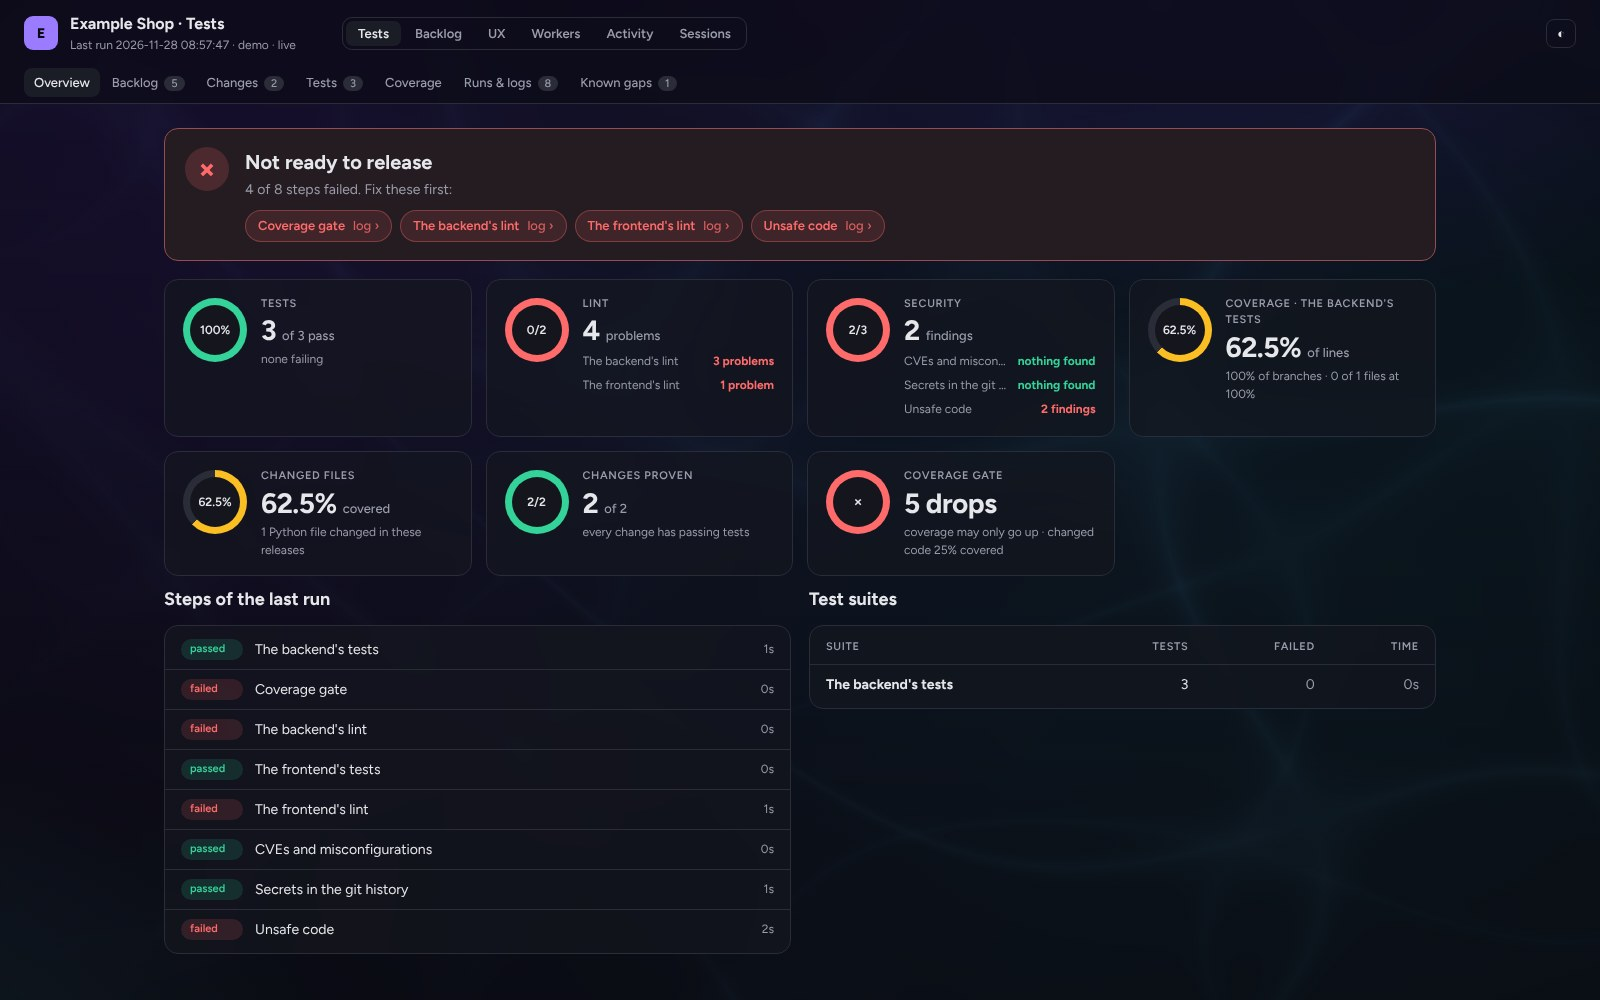
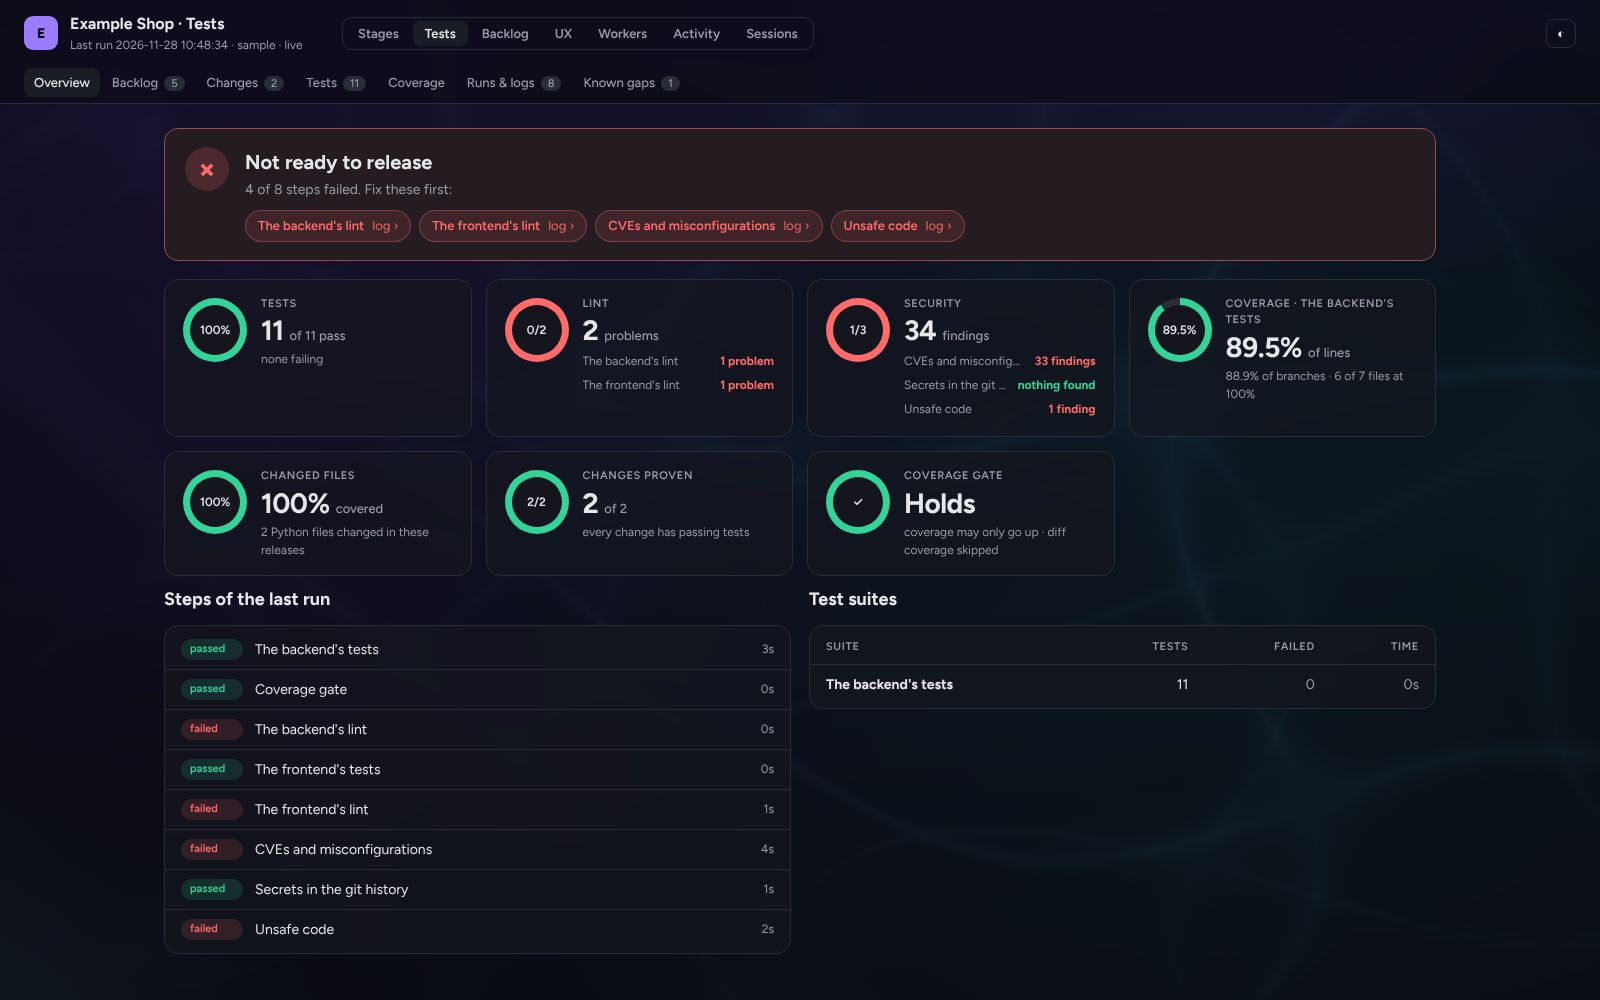
Docs: fresh screenshots of a sample project: Stages, UX Map, Jobs and Review, Security and Code quality
The pictures showed the 0.1.4 top bar and no Stages page, Map, Jobs or Review tab. New shots from a
fresh 0.1.10 demo project (a generic sample shop made with crissp init): its backlog moves, test runs
(check-all red, then green), workers, walk screenshots and map are real; the UX rounds', designs' and
discovery round's text and the Activity session are stand-ins (no Claude round). New: stages.jpg,
ux-map.jpg, ux-jobs.jpg, ux-review.jpg; every other picture retaken (the top bar changed). README and
site/index.html show the new ones in their sections; the release notes say so.

Claude-Session: https://claude.ai/code/session_01XMMATZcupTCZMeh1a1h9An

diff --git a/site/index.html b/site/index.html
@@ -84,19 +84,23 @@ Release gate: <span class="ok">green</span> · deploying 3f2a9c1</pre>
 
   <section id="see" class="block">
     <p class="eyebrow">See it</p>
-    <h2>One local dashboard for the tests, the board, the UX team and what Claude is doing now.</h2>
+    <h2>One local dashboard for where the work is, the tests, the board, the UX team and what Claude is doing now.</h2>
     <div class="shots">
-      <figure class="card shot wide"><img src="images/ux-design.jpg" alt="A design: the screen as it is now next to the designer's proposal, with Approve, Approve with a remark, Again and Reject" loading="lazy"><figcaption><b>Before and after, then approve.</b> What people see now next to the design, the same size. Your remark goes into the backlog item.</figcaption></figure>
-      <figure class="card shot"><img src="images/dashboard.jpg" alt="The Tests dashboard: Green, ready to release, with the tests, lint, security, coverage and the gate, and every step of the run" loading="lazy"><figcaption><b>Ready to release?</b> The answer first, then the tests, lint, security, coverage and every step.</figcaption></figure>
+      <figure class="card shot wide"><img src="images/stages.jpg" alt="The Stages page: the six stages, Discover, Plan, Build, Verify, Review and Release, each with what is in it, whose move it is, and Ask Claude or Ask Vibe" loading="lazy"><figcaption><b>Where the work is.</b> The six stages, what is in each and whose move it is, with Ask Claude and Ask Vibe per stage.</figcaption></figure>
+      <figure class="card shot"><img src="images/dashboard.jpg" alt="The Tests dashboard: Green, ready to release, with the tests, the lint tile, the security tile, coverage and the gate, and every step of the run" loading="lazy"><figcaption><b>Ready to release?</b> The answer first, then the tests, lint, security, coverage and every step.</figcaption></figure>
       <figure class="card shot"><img src="images/dashboard-red.jpg" alt="The Tests dashboard when a run is red: Not ready to release, the failed steps as links to their logs, lint problems and security findings per part" loading="lazy"><figcaption><b>And when it is not:</b> what stops the release, each linked to its log, and what lint and the scans found.</figcaption></figure>
+      <figure class="card shot wide"><img src="images/ux-design.jpg" alt="A design: the screen as it is now next to the designer's proposal, with Approve, Approve with a remark, Again and Reject" loading="lazy"><figcaption><b>Before and after, then approve.</b> What people see now next to the design, the same size. Your remark goes into the backlog item.</figcaption></figure>
+      <figure class="card shot"><img src="images/ux-review.jpg" alt="The UX review screen: one screen at a time, its progress from new to accepted, the shot with the advice pinned where it is, and a verdict bar" loading="lazy"><figcaption><b>The review screen:</b> one screen at a time, the advice pinned on the shot, one verdict bar.</figcaption></figure>
+      <figure class="card shot"><img src="images/ux-advice.jpg" alt="A UX round: scores per persona and advice marked must, should and could" loading="lazy"><figcaption><b>The UX team's advice:</b> scores, agreements, disputes, and advice you answer.</figcaption></figure>
+      <figure class="card shot"><img src="images/ux-map.jpg" alt="The UX map: every screen of the product with its area, how it was found and its gaps" loading="lazy"><figcaption><b>The map:</b> every screen, from a crawl, the walks and your E2E tests, and its gaps.</figcaption></figure>
+      <figure class="card shot"><img src="images/ux-jobs.jpg" alt="The UX jobs: a discovery round, every persona's jobs marked done, hard or impossible, with the screens and where they gave up" loading="lazy"><figcaption><b>The jobs:</b> can every persona do what they come for? Done, hard or impossible, and where they gave up.</figcaption></figure>
       <figure class="card shot wide"><img src="images/activity.jpg" alt="The Activity page: a busy Claude session, its orchestrator's current step and three agents, two running and one finished" loading="lazy"><figcaption><b>What Claude is doing now.</b> Per session the orchestrator's current step and every agent it started, running first, live.</figcaption></figure>
       <figure class="card shot"><img src="images/board.jpg" alt="The backlog board: moved recently, from where to where and in which commit, above the lanes per status" loading="lazy"><figcaption><b>The board and how it moved:</b> from where to where, when, in which commit or not committed yet. Only you move work to done.</figcaption></figure>
       <figure class="card shot"><img src="images/workers.jpg" alt="The workers page: this machine's CPUs and memory, and a step's tests spread over three workers" loading="lazy"><figcaption><b>The workers:</b> a step's tests spread over what this machine has, worker by worker.</figcaption></figure>
-      <figure class="card shot"><img src="images/ux-advice.jpg" alt="A UX round: scores per persona and advice marked must, should and could" loading="lazy"><figcaption><b>The UX team's advice:</b> scores, agreements, disputes, and advice you answer.</figcaption></figure>
       <figure class="card shot"><img src="images/ux-team.jpg" alt="The UX team: five personas with their device and what they look for" loading="lazy"><figcaption><b>The team:</b> who they are and what they look for, per product, edited in the Team tab.</figcaption></figure>
       <figure class="card shot"><img src="images/ux-rules.jpg" alt="The UX rules: what every screen must do, checked on each round" loading="lazy"><figcaption><b>The rules:</b> what every screen must do, edited in the Rules tab.</figcaption></figure>
     </div>
-    <p class="small muted">A demo project made with <code>crissp init</code>: its backlog, test run and screenshots are real; the UX round's and the design's text and the Claude session on the Activity page are samples (a real round runs on your own Claude login).</p>
+    <p class="small muted">A demo project, a small sample shop made with <code>crissp init</code>: its backlog, test runs, screenshots and map are real; the text of the UX rounds, the designs and the discovery round, and the Claude session on the Activity page, are samples (a real round runs on your own Claude login).</p>
   </section>
 
   <section id="letters" class="block">

diff --git a/README.md b/README.md
@@ -48,14 +48,15 @@ Guards are plain scripts, with no AI in them. They decide what is green.
 
 ## See it
 
-One local server (`crissp dashboard`, on 127.0.0.1) shows the tests, the backlog board, the UX team, the workers and
-what Claude is doing now, under one top bar (Tests · Backlog · UX · Workers · Activity · Sessions) in one dark look (a
-light theme is one click away). It never runs a test and loads nothing from the internet.
+One local server (`crissp dashboard`, on 127.0.0.1) shows where the work is, the tests, the backlog board, the UX team,
+the workers and what Claude is doing now, under one top bar (Stages · Tests · Backlog · UX · Workers · Activity ·
+Sessions) in one dark look (a light theme is one click away). It never runs a test and loads nothing from the internet.
 
 **Where the work is**: the six stages, Discover, Plan, Build, Verify, Review and Release, on the Stages page
 (`/stages`), each with what is in it and whose move it is, read from the backlog, the checks, git and the UX team. Ask
 Claude or Ask Vibe gives you the command that starts a session on that stage; every session also opens by saying the
 stage and offering its help.
+![The Stages page](https://raw.githubusercontent.com/richardedens/crissp/main/docs/images/stages.jpg)
 
 **Ready to release?** The answer comes first: green, or which steps stop the release, each linked to its log. Then the
 tests, the lint of the backend and the frontend, the security scans (CVEs, secrets in the git history, unsafe code),
@@ -83,10 +84,23 @@ design.
 *Agree · Disagree · Later*.
 ![A UX round's advice](https://raw.githubusercontent.com/richardedens/crissp/main/docs/images/ux-advice.jpg)
 
+**The review screen**: one screen at a time, the ones that wait for you first. Its way from new to accepted as one
+progress bar, the shot with the team's advice pinned where it is, next to the design, and one verdict bar at the
+bottom (`1 2 3` to answer, the arrow keys to move on).
+![The UX review screen](https://raw.githubusercontent.com/richardedens/crissp/main/docs/images/ux-review.jpg)
+
 **Before and after, then approve**: what people see now (on a laptop or a phone) next to the designer's proposal, the
 same size, with *Approve · Approve with a remark… · Again, with… · Reject* right under it. An approval becomes a backlog
 item, and your remark is the first thing the builder reads in it.
 ![A design: before and after](https://raw.githubusercontent.com/richardedens/crissp/main/docs/images/ux-design.jpg)
+
+**The map**: every screen of the product, found by a read-only crawl, the walks and your own E2E tests' screenshots,
+each with its area, how it was found and its gaps: a screen no link reaches, or one no walk looks at.
+![The UX map](https://raw.githubusercontent.com/richardedens/crissp/main/docs/images/ux-map.jpg)
+
+**The jobs**: in a discovery round every persona tries their own jobs on the mapped screens and says per job *done*,
+*hard* or *impossible*, and where they gave up. What cannot be done becomes a need you approve or reject.
+![The UX jobs: a discovery round](https://raw.githubusercontent.com/richardedens/crissp/main/docs/images/ux-jobs.jpg)
 
 **The team**: who they are, which device they use and what they look for, configured per product and edited in the Team tab.
 ![The UX team](https://raw.githubusercontent.com/richardedens/crissp/main/docs/images/ux-team.jpg)
@@ -94,9 +108,10 @@ item, and your remark is the first thing the builder reads in it.
 **The rules**: what every screen must do, checked on each round and edited in the Rules tab.
 ![The UX rules](https://raw.githubusercontent.com/richardedens/crissp/main/docs/images/ux-rules.jpg)
 
-<sub>The pictures show demo projects made with `crissp init` (the Tests dashboard with 0.1.10, the rest with 0.1.4). Its backlog and its moves, test run, workers and
-screenshots are real; the UX round's and the design's text and the Claude session on the Activity page are samples,
-because a real round runs on your own Claude login and costs tokens.</sub>
+<sub>The pictures show a demo project, a small sample shop made with `crissp init` (0.1.10). Its backlog and its moves,
+test runs, workers, screenshots and map are real; the text of the UX rounds, the designs and the discovery round, and
+the Claude session on the Activity page, are samples, because a real round runs on your own Claude login and costs
+tokens.</sub>
 
 ## Start a project
 

diff --git a/CHANGELOG.md b/CHANGELOG.md
@@ -194,6 +194,9 @@ What changed in C.R.I.S.S.P., newest first. One entry per version (the version i
 - **`.vibe/config.toml` is committed, like `.mcp.json` (F-29).** It holds the same pin and nothing tied to one
   machine, so a teammate's Vibe gets the crissp tools from the clone, without `crissp repair`. The `.gitignore`
   rules are `.vibe/*` and `!.vibe/config.toml`: whatever else Vibe keeps in `.vibe/` stays local.
+- **New pictures** in the README and on the website, from a fresh 0.1.10 demo project (a small sample shop): the
+  Stages page, the UX page's Map, Jobs and Review tabs, and the Tests dashboard's Security and Lint tiles, green and
+  red; the other pictures show the new top bar.
 
 ## 0.1.9 — 2026-11-24
 
